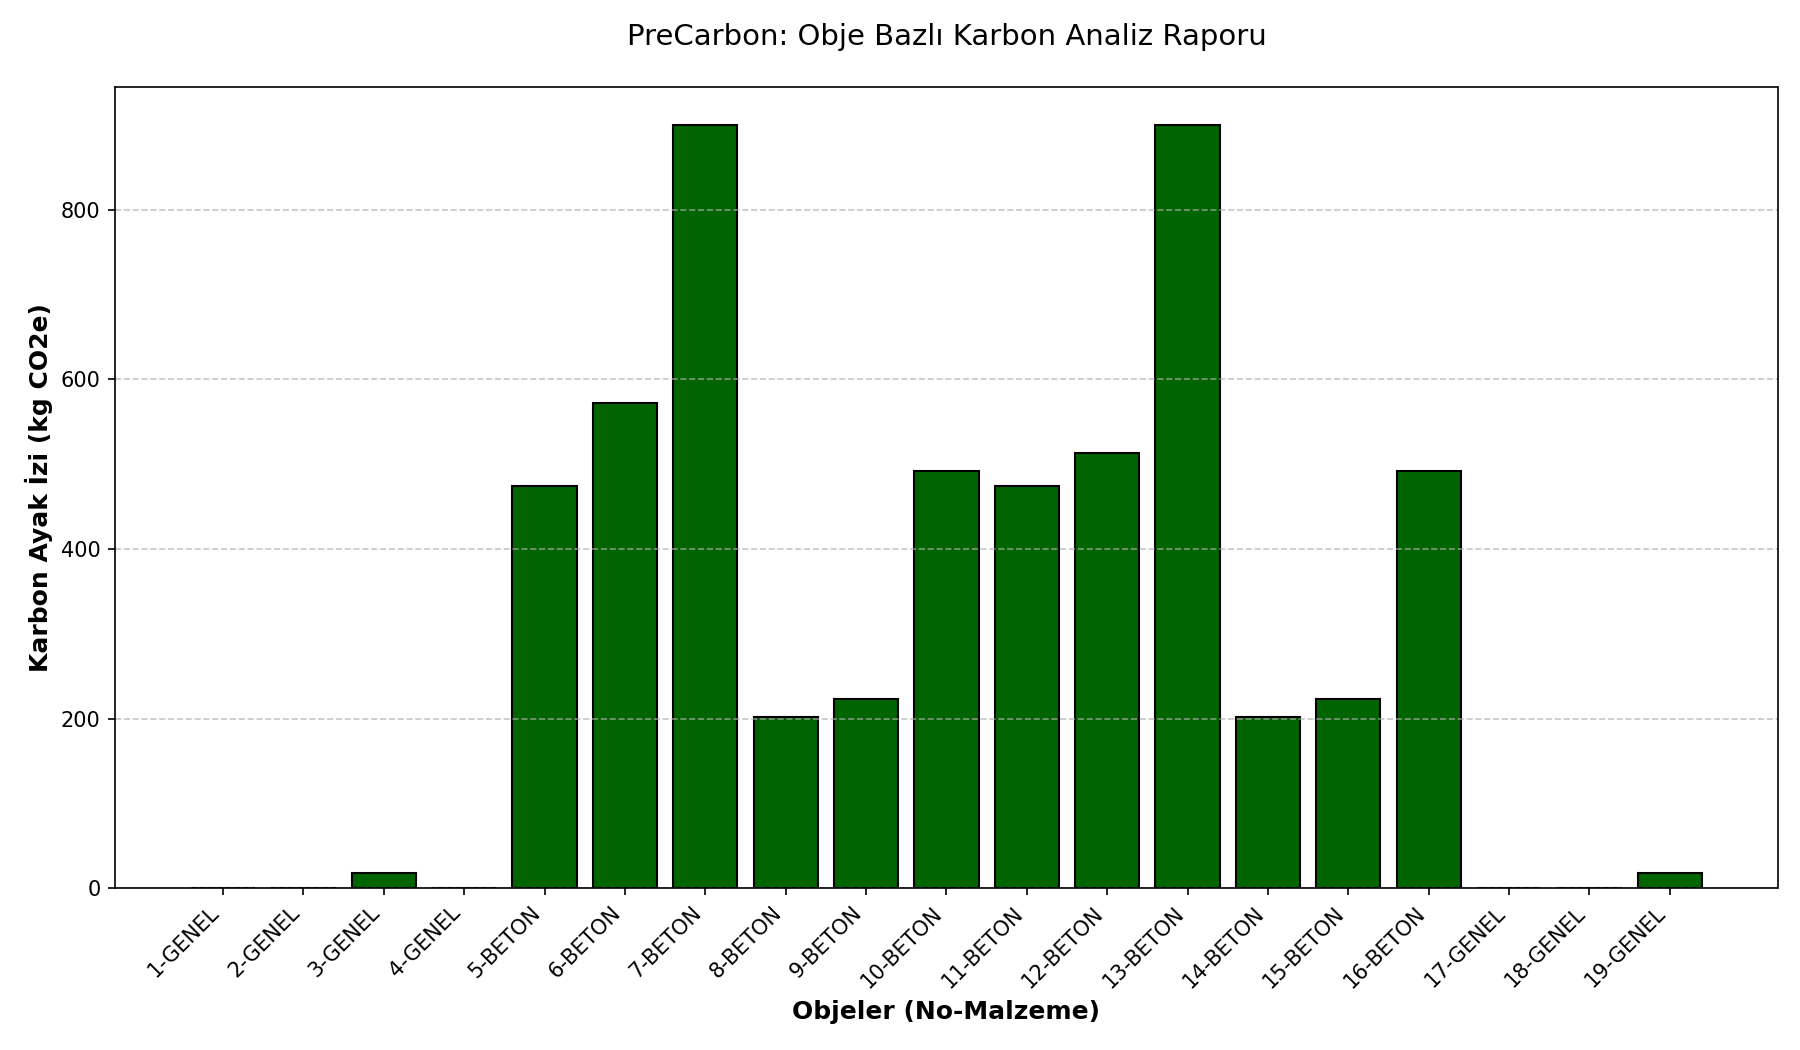
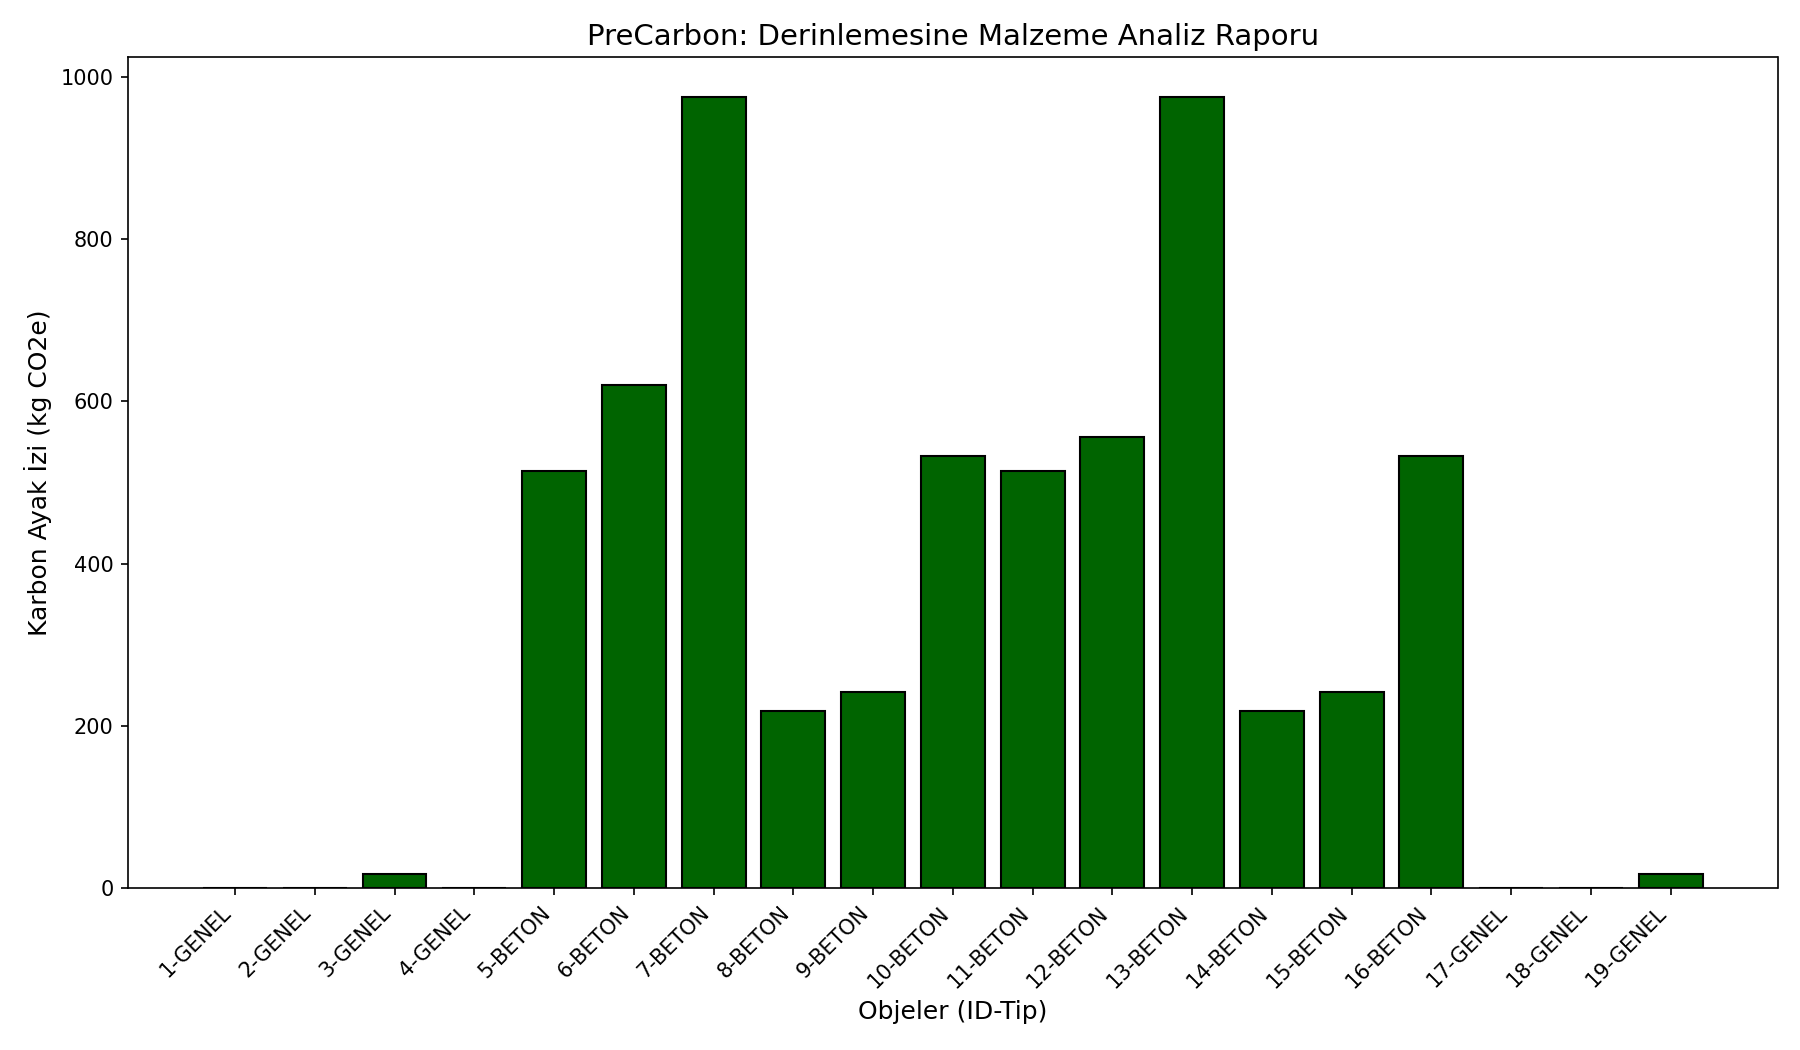
feat: derinleştirilmiş malzeme kütüphanesi ve alt tip analizi eklendi

diff --git a/src/ifc_handler.py b/src/ifc_handler.py
@@ -6,7 +6,7 @@ import matplotlib.pyplot as plt
 
 
 def karbon_analizi_yap(dosya_yolu):
-    # 1. Katsayıları JSON'dan Yükle
+    # 1. Genişletilmiş Katsayıları JSON'dan Yükle
     json_path = os.path.join(os.path.dirname(__file__), "..", "data", "carbon_factors.json")
     try:
         with open(json_path, "r", encoding="utf-8") as f:
@@ -33,67 +33,71 @@ def karbon_analizi_yap(dosya_yolu):
     for i, obje in enumerate(objeler, 1):
         isim = (obje.Name or f"Obje_{i}").upper()
 
-        # --- HACİM HESABI (Bounding Box) ---
+        # --- HACİM HESABI ---
         try:
             shape = ifcopenshell.geom.create_shape(settings, obje)
             verts = shape.geometry.verts
-            x_dim = max(verts[0::3]) - min(verts[0::3])
-            y_dim = max(verts[1::3]) - min(verts[1::3])
-            z_dim = max(verts[2::3]) - min(verts[2::3])
-            hacim = x_dim * y_dim * z_dim
+            hacim = (max(verts[0::3]) - min(verts[0::3])) * \
+                    (max(verts[1::3]) - min(verts[1::3])) * \
+                    (max(verts[2::3]) - min(verts[2::3]))
         except:
             hacim = 1.0
 
-            # --- AKILLI MALZEME TAHMİN MEKANİZMASI ---
+            # --- 🧠 3. AŞAMA: DERİNLEŞTİRİLMİŞ MALZEME TAHMİN MEKANİZMASI ---
         mat_key = "GENEL"
-        if any(keyword in isim for keyword in ["BETON", "CONCRETE", "FERTIG"]):
-            mat_key = "BETON"
-        elif any(keyword in isim for keyword in ["STEEL", "CELIK", "IRON"]):
-            mat_key = "STEEL"
-        elif any(keyword in isim for keyword in ["GLASS", "CAM"]):
-            mat_key = "GLASS"
-        elif any(keyword in isim for keyword in ["WOOD", "AHSAP", "TIMBER"]):
-            mat_key = "WOOD"
 
-        info = katsayilar[mat_key]
+        # Beton Detaylandırma
+        if any(k in isim for k in ["BETON", "CONCRETE", "FERTIG"]):
+            if any(k in isim for k in ["RECYCLED", "GERI", "DONUSUM"]):
+                mat_key = "BETON_GERIDONUSUM"
+            else:
+                mat_key = "BETON_STANDART"
+
+        # Çelik Detaylandırma
+        elif any(k in isim for k in ["STEEL", "CELIK", "IRON"]):
+            if any(k in isim for k in ["REBAR", "DONATI", "HASIR", "BAR"]):
+                mat_key = "STEEL_REBAR"
+            else:
+                mat_key = "STEEL_SECTION"
+
+        # Cam Detaylandırma
+        elif any(k in isim for k in ["GLASS", "CAM"]):
+            mat_key = "GLASS_TRIPLE"
+
+        # Ahşap Detaylandırma
+        elif any(k in isim for k in ["WOOD", "AHSAP", "TIMBER"]):
+            mat_key = "WOOD_SOFTWOOD"
+
+        # Veri çekme ve Hesaplama
+        info = katsayilar.get(mat_key, katsayilar["GENEL"])
         agirlik = hacim * info["density"]
         obje_karbon = agirlik * info["factor"]
         toplam_karbon += obje_karbon
 
-        # Tablo verisi hazırla
+        # Tablo verisi (Genişletilmiş Metrikler)
         analiz_verileri.append({
             "No": i,
             "Obje": isim[:20],
-            "Malzeme": info["name"],
+            "Tahmin Edilen Malzeme": info["name"],
             "Hacim (m3)": round(hacim, 3),
-            "Karbon (kg CO2e)": round(obje_karbon, 2)
+            "Yoğunluk (kg/m3)": info["density"],
+            "Karbon Yükü (kg CO2e)": round(obje_karbon, 2)
         })
 
-        # Grafik verisi hazırla
-        isimler_listesi.append(f"{i}-{mat_key}")
+        isimler_listesi.append(f"{i}-{mat_key[:5]}")
         karbon_degerleri.append(obje_karbon)
 
-    # --- GRAFİK OLUŞTURMA VE İYİLEŞTİRME ---
-    plt.figure(figsize=(12, 7))  # Grafik alanını genişlettik
-    bars = plt.bar(isimler_listesi, karbon_degerleri, color='darkgreen', edgecolor='black')
-
-    plt.xlabel('Objeler (No-Malzeme)', fontsize=12, fontweight='bold')
-    plt.ylabel('Karbon Ayak İzi (kg CO2e)', fontsize=12, fontweight='bold')
-    plt.title('PreCarbon: Obje Bazlı Karbon Analiz Raporu', fontsize=14, pad=20)
-
-    # Eksen yazılarını düzenleme (Okunabilirliği sağlayan kritik kısım)
+    # --- GRAFİK OLUŞTURMA ---
+    plt.figure(figsize=(12, 7))
+    plt.bar(isimler_listesi, karbon_degerleri, color='darkgreen', edgecolor='black')
+    plt.xlabel('Objeler (ID-Tip)', fontsize=12)
+    plt.ylabel('Karbon Ayak İzi (kg CO2e)', fontsize=12)
+    plt.title('PreCarbon: Derinlemesine Malzeme Analiz Raporu', fontsize=14)
     plt.xticks(rotation=45, ha='right', fontsize=10)
-    plt.yticks(fontsize=10)
-
-    # Izgara çizgileri ekleyelim (Opsiyonel ama şık durur)
-    plt.grid(axis='y', linestyle='--', alpha=0.7)
-
-    # Grafik öğelerinin birbirine girmesini önle
     plt.tight_layout()
 
-    # Grafiği kaydet
     grafik_yolu = os.path.join(os.path.dirname(__file__), "..", "data", "karbon_grafigi.png")
-    plt.savefig(grafik_yolu, dpi=150)  # Çözünürlüğü artırdık
+    plt.savefig(grafik_yolu, dpi=150)
     plt.close()
 
     return analiz_verileri, toplam_karbon